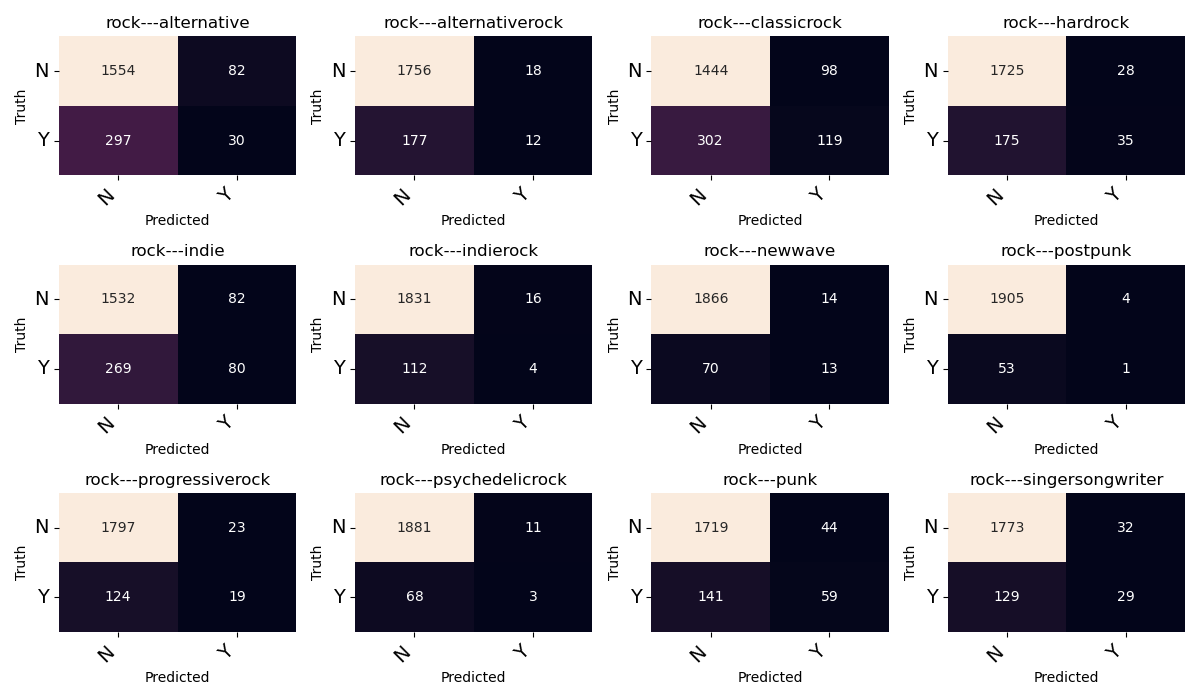
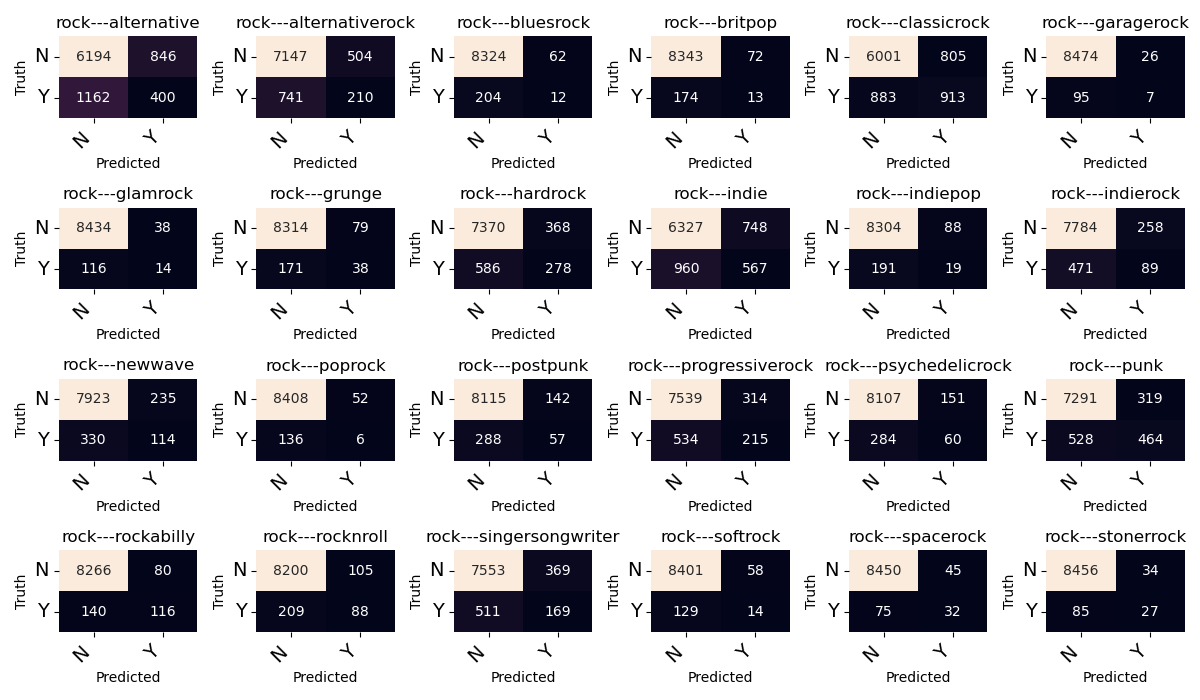
cross validation implemented

diff --git a/multilabel_cross_val.py b/multilabel_cross_val.py
@@ -1,0 +1,244 @@
+#importing libraries
+import pandas as pd
+import torch
+import os
+import seaborn as sns
+from sklearn.metrics import classification_report, multilabel_confusion_matrix
+from sklearn.model_selection import KFold
+import numpy as np
+import matplotlib.pyplot as plt
+from torch.utils.data import Dataset, DataLoader, SubsetRandomSampler
+from torch import nn
+import torch.nn.functional as F
+
+listOfGenres = sorted([
+    'rock---alternative', 'rock---alternativerock', 'rock---bluesrock',
+    'rock---britpop', 'rock---classicrock', 'rock---garagerock',
+    'rock---glamrock', 'rock---grunge', 'rock---hardrock', 'rock---indie',
+    'rock---indiepop', 'rock---indierock', 'rock---newwave', 'rock---poprock',
+    'rock---postpunk', 'rock---progressiverock', 'rock---psychedelicrock',
+    'rock---punk', 'rock---rockabilly', 'rock---rocknroll',
+    'rock---singersongwriter', 'rock---softrock', 'rock---spacerock',
+    'rock---stonerrock'
+])
+
+
+# get dataset
+class make_dataset(Dataset):
+    def __init__(self, x, y):
+        self.x = torch.tensor(x, dtype=torch.float32)
+        self.y = torch.tensor(y, dtype=torch.float32)
+        self.length = self.x.shape[0]
+
+    def __getitem__(self, idx):
+        return self.x[idx], self.y[idx]
+
+    def __len__(self):
+        return self.length
+
+
+# get model
+class multi_classifier(nn.Module):
+    def __init__(self, input_size, output_size):
+        super(multi_classifier, self).__init__()
+        self.l1 = nn.Sequential(nn.Linear(input_size, 256), nn.ReLU(),
+                                nn.Dropout(0.5))
+        self.l2 = nn.Linear(256, output_size)
+
+    def forward(self, x):
+        output = self.l1(x)
+        output = self.l2(output)
+        return F.sigmoid(output)
+
+
+# train epoch
+def train_epoch(model, dataloader, criterion, optimizer):
+    train_loss = 0.0
+    train_accuracy = []
+    for x_train, y_train in dataloader:
+        y_pred = model(x_train)
+        accuracy = []
+        for k, d in enumerate(y_pred, 0):
+            acc = prediction_accuracy(torch.Tensor.cpu(y_train[k]),
+                                      torch.Tensor.cpu(d))
+            accuracy.append(acc)
+        train_accuracy.append(np.asarray(accuracy).mean())
+        cost = criterion(y_pred, y_train)
+        # backprop
+        optimizer.zero_grad()
+        cost.backward()
+        optimizer.step()
+        train_loss += cost.item() * x_train.size(0)  # uncertain about this
+    train_acc = np.asarray(train_accuracy).mean()
+    return train_loss, train_acc
+
+
+def valid_epoch(model, dataloader, criterion):
+    model.eval()
+    valid_loss = 0.0
+    valid_accuracy = []
+    for x_valid, y_valid in dataloader:
+        y_pred = model(x_valid)
+        accuracy = []
+        for k, d in enumerate(y_pred, 0):
+            acc = prediction_accuracy(torch.Tensor.cpu(y_valid[k]),
+                                      torch.Tensor.cpu(d))
+            accuracy.append(acc)
+        valid_accuracy.append(np.asarray(accuracy).mean())
+        cost = criterion(y_pred, y_valid)
+        valid_loss += cost.item() * x_valid.size(0)  # uncertain about this
+    valid_acc = np.asarray(valid_accuracy).mean()
+    return valid_loss, valid_acc
+
+
+# prediction accuracy
+def prediction_accuracy(truth, predicted):
+    return torch.round(predicted).eq(truth).sum().numpy() / len(truth)
+
+
+# get single prediction
+def get_prediction(x, subgenres, model):
+    x_features = torch.tensor(x, dtype=torch.float32)
+    res = torch.round(model(x_features))
+    res = torch.Tensor.cpu(res).detach().numpy()
+    idx = np.argpartition(res, -3)[-3:]
+
+    labels = []
+    for i in idx:
+        labels.append(subgenres[i])
+    print(labels)
+    return labels
+
+
+def print_confusion_matrix(confusion_matrix,
+                           axes,
+                           class_label,
+                           class_names,
+                           fontsize=14):
+    df_cm = pd.DataFrame(confusion_matrix,
+                         index=class_names,
+                         columns=class_names)
+    try:
+        heatmap = sns.heatmap(df_cm, annot=True, fmt="d", cbar=False, ax=axes)
+    except ValueError:
+        raise ValueError("Confusion matrix values must be integers.")
+    heatmap.yaxis.set_ticklabels(heatmap.yaxis.get_ticklabels(),
+                                 rotation=0,
+                                 ha='right',
+                                 fontsize=fontsize)
+    heatmap.xaxis.set_ticklabels(heatmap.xaxis.get_ticklabels(),
+                                 rotation=45,
+                                 ha='right',
+                                 fontsize=fontsize)
+    axes.set_ylabel('Truth')
+    axes.set_xlabel('Predicted')
+    axes.set_title(class_label)
+
+
+# evaluate using 10-fold cross-validation
+if __name__ == '__main__':
+    # combine data
+    data_p1 = pd.read_csv('data/rock1edited_filtered.csv', index_col=0)
+    data_p2 = pd.read_csv('data/rock2edited_filtered.csv', index_col=0)
+    full_train = data_p1.append(data_p2)
+    # separate target values and get random splits
+    num_genres = 24
+    X = full_train.iloc[:, :len(full_train.columns) - num_genres]
+    Y = full_train.iloc[:, len(full_train.columns) - num_genres:]
+
+    dataset = make_dataset(X.values, Y.values)
+    splits = KFold(n_splits=10, shuffle=True, random_state=0)
+    batch_size = 32
+
+    # train over folds
+    history = {
+        'train_loss': [],
+        'test_loss': [],
+        'train_acc': [],
+        'test_acc': []
+    }
+    y_predicts = np.empty(shape=(len(full_train), num_genres))
+    y_truths = np.empty(shape=(len(full_train), num_genres))
+    row = 0
+    for fold, (train_idx,
+               val_idx) in enumerate(splits.split(np.arange(len(dataset)))):
+        print('Fold {}'.format(fold + 1))
+        train_sampler = SubsetRandomSampler(train_idx)
+        test_sampler = SubsetRandomSampler(val_idx)
+        train_loader = DataLoader(dataset,
+                                  batch_size=batch_size,
+                                  sampler=train_sampler)
+        test_loader = DataLoader(dataset,
+                                 batch_size=batch_size,
+                                 sampler=test_sampler)
+
+        model = multi_classifier(
+            len(full_train.columns) - num_genres, num_genres)
+        # binary cross entropy loss
+        criterion = nn.BCELoss()
+        optimizer = torch.optim.Adam(model.parameters(), lr=0.001)
+
+        for epoch in range(20):
+            train_loss, train_acc = train_epoch(model, train_loader, criterion,
+                                                optimizer)
+            test_loss, test_acc = valid_epoch(model, test_loader, criterion)
+
+            train_loss = train_loss / len(train_loader.sampler)
+            test_loss = test_loss / len(test_loader.sampler)
+
+            if (epoch + 1) % 10 == 0:
+                print(
+                    "Epoch: {}/{} AVG Training Loss: {:.3f} AVG Test Loss: {:.3f} AVG Training Acc {:.6f} AVG Test Acc {:.6f} %"
+                    .format(epoch + 1, 100, train_loss, test_loss, train_acc,
+                            test_acc))
+            history['train_loss'].append(train_loss)
+            history['test_loss'].append(test_loss)
+            history['train_acc'].append(train_acc)
+            history['test_acc'].append(test_acc)
+
+        for x_test, y_test in test_loader:
+            y_pred = model(x_test)
+            res = torch.round(y_pred)
+            res = torch.Tensor.cpu(res).detach().numpy()
+            truths = torch.Tensor.cpu(y_test).detach().numpy()
+            for i in range(res.shape[0]):
+                y_predicts[row] = res[i]
+                y_truths[row] = truths[i]
+                row += 1
+
+    # train and output predict loss after every 10 epochs
+    avg_train_loss = np.mean(history['train_loss'])
+    avg_test_loss = np.mean(history['test_loss'])
+    avg_train_acc = np.mean(history['train_acc'])
+    avg_test_acc = np.mean(history['test_acc'])
+    print('Performance of {} fold cross validation'.format(10))
+    print(
+        "Average Training Loss: {:.4f} \t Average Test Loss: {:.4f} \t Average Training Acc: {:.6f} \t Average Test Acc: {:.6f}"
+        .format(avg_train_loss, avg_test_loss, avg_train_acc, avg_test_acc))
+
+    # get confusion matrix and precision/recall metrics
+    print('bluuuuu')
+    print(y_predicts[0], len(y_predicts), y_truths[0])
+
+    #Confusion Matrix
+    print(
+        classification_report(y_truths, y_predicts, target_names=listOfGenres))
+    cf_matrix = multilabel_confusion_matrix(y_truths, y_predicts)
+    fig, ax = plt.subplots(4, 6, figsize=(12, 7))
+
+    for axes, cfs_matrix, label in zip(ax.flatten(), cf_matrix, listOfGenres):
+        print_confusion_matrix(cfs_matrix, axes, label, ["N", "Y"])
+
+    fig.tight_layout()
+    plt.savefig('visualizations/nn_cross_val_output.png')
+    plt.show()
+
+    X_test = full_test.iloc[1, :len(full_test.columns) - num_genres]
+    Y_test = full_test.iloc[1, len(full_test.columns) - num_genres:]
+    get_prediction(X_test, listOfGenres, model)
+
+    idx = np.argpartition(Y_test, -3)[-3:]
+    labels = []
+    for i in idx:
+        labels.append(listOfGenres[i])
+    print(labels)

diff --git a/test_multilabel_nn.py b/test_multilabel_nn.py
@@ -11,26 +11,14 @@ from torch.utils.data import Dataset, DataLoader
 from torch import nn
 import torch.nn.functional as F
 
-listOfGenres = sorted(['rock---alternative', 'rock---indierock', 'rock---singersongwriter',
-                    'rock---classicrock', 'rock---poprock', 'rock---progressiverock', 'rock---rockabilly', 'rock---rocknroll',
-                    'rock---hardcorepunk', 'rock---punk', 'rock---newwave', 'rock---postpunk', 'rock---alternativerock',
-                    'rock---indie', 'rock---hardrock', 'rock---hairmetal', 'rock---artrock', 'rock---bluesrock','rock---alternativepunk',
-                    'rock---latinrock', 'rock---powerpop', 'rock---indiepop', 'rock---psychobilly',
-                    'rock---stonerrock', 'rock---glamrock', 'rock---aor', 'rock---psychedelicrock', 'rock---britpop', 'rock---newromantic',
-                    'rock---emo', 'rock---softrock', 'rock---grunge', 'rock---pianorock', 'rock---american', 'rock---rockabillysoul',
-                    'rock---krautrock', 'rock---noisepop', 'rock---stoner', 'rock---garagerock', 'rock---lofi', 'rock---spacerock',
-                    'rock---indiefolk', 'rock---alternativemetal', 'rock---guitarvirtuoso', 'rock---powerballad', 'rock---symphonicrock',
-                    'rock---rockballad', 'rock---arenarock', 'rock---protopunk', 'rock---numetal', 'rock---rapcore', 'rock---funkrock',
-                    'rock---folkpunk', 'rock---surfrock',
-                    'rock---anarchopunk', 'rock---stonermetal', 'rock---southernrock', 'rock---poppunk', 'rock---jamband',
-                    'rock---funkmetal', 'rock---madchester', 'rock---britishinvasion', 'rock---chamberpop', 'rock---russianrock',
-                    'rock---experimentalrock', 'rock---melodicrock', 'rock---postgrunge', 'rock---horrorpunk', 'rock---streetpunk',
-                    'rock---jazzrock', 'rock---symphonicprog', 'rock---glam', 'rock---acousticrock',
-                    'rock---psychedelicpop'])
-top_twelve_list = sorted(['rock---classicrock','rock---alternative','rock---indie', 'rock---punk', 'rock---alternativerock',
-                    'rock---hardrock','rock---progressiverock','rock---singersongwriter', 'rock---indierock', 'rock---newwave', 'rock---postpunk', 'rock---psychedelicrock'])
-top_twelve_indices = [listOfGenres.index(top_twelve_list[i]) for i in range(12)]
-
+listOfGenres = sorted(['rock---alternative', 'rock---alternativerock', 'rock---bluesrock',
+ 'rock---britpop', 'rock---classicrock', 'rock---garagerock',
+ 'rock---glamrock', 'rock---grunge', 'rock---hardrock', 'rock---indie',
+ 'rock---indiepop', 'rock---indierock', 'rock---newwave', 'rock---poprock',
+ 'rock---postpunk', 'rock---progressiverock', 'rock---psychedelicrock',
+ 'rock---punk', 'rock---rockabilly', 'rock---rocknroll',
+ 'rock---singersongwriter', 'rock---softrock', 'rock---spacerock',
+ 'rock---stonerrock'])
 
 # get dataset
 class make_dataset(Dataset):
@@ -57,6 +45,42 @@ class multi_classifier(nn.Module):
         output = self.l1(x)
         output = self.l2(output)
         return F.sigmoid(output)
+
+# train epoch
+def train_epoch(model, dataloader, criterion, optimizer):
+    train_loss = 0.0
+    train_accuracy = []
+    for x_train, y_train in dataloader:
+        y_pred = model(x_train)
+        accuracy = []
+        for k, d in enumerate(y_pred, 0): 
+            acc = prediction_accuracy(torch.Tensor.cpu(y_train[k]), torch.Tensor.cpu(d))
+            accuracy.append(acc)
+        train_accuracy.append(np.asarray(accuracy).mean())
+        cost = criterion(y_pred, y_train)
+        # backprop
+        optimizer.zero_grad()
+        cost.backward()
+        optimizer.step()
+        train_loss += cost.item() * x_train.size(0) # uncertain about this
+    train_acc = np.asarray(train_accuracy).mean()
+    return train_loss, train_acc
+
+def valid_epoch(model,dataloader,criterion):
+    model.eval()
+    valid_loss = 0.0
+    valid_accuracy = []
+    for x_valid, y_valid in dataloader:
+        y_pred = model(x_valid)
+        accuracy = []
+        for k, d in enumerate(y_pred, 0): 
+            acc = prediction_accuracy(torch.Tensor.cpu(y_valid[k]), torch.Tensor.cpu(d))
+            accuracy.append(acc)
+        valid_accuracy.append(np.asarray(accuracy).mean())
+        cost = criterion(y_pred, y_valid)
+        valid_loss += cost.item() * x_valid.size(0) # uncertain about this
+    valid_acc = np.asarray(valid_accuracy).mean()
+    return valid_loss, valid_acc
 
 # prediction accuracy
 def prediction_accuracy(truth, predicted):
@@ -87,16 +111,19 @@ def print_confusion_matrix(confusion_matrix, axes, class_label, class_names, fon
     axes.set_xlabel('Predicted')
     axes.set_title(class_label)
 
+
+
+
 # evaluate using 10-fold cross-validation
 if __name__ == '__main__':
     # combine data
-    data_p1 = pd.read_csv('data/rock1edited.csv', index_col = 0)
-    data_p2 = pd.read_csv('data/rock2edited.csv', index_col = 0)
+    data_p1 = pd.read_csv('data/rock1edited_filtered.csv', index_col = 0)
+    data_p2 = pd.read_csv('data/rock2edited_filtered.csv', index_col = 0)
     full_train = data_p1.append(data_p2)
-    full_test = pd.read_csv('data/rockvalidedited.csv', index_col = 0)
+    full_test = pd.read_csv('data/rockvalidedited_filtered.csv', index_col = 0)
     
     # separate target values
-    num_genres = 74
+    num_genres = 24
     X = full_train.iloc[:, : len(full_train.columns) - num_genres]
     Y = full_train.iloc[:, len(full_train.columns) - num_genres:]
 
@@ -166,11 +193,9 @@ if __name__ == '__main__':
     #Confusion Matrix
     print(classification_report(y_truths, y_predicts, target_names=listOfGenres))
     cf_matrix = multilabel_confusion_matrix(y_truths, y_predicts)
-    fig, ax = plt.subplots(3, 4, figsize=(12, 7))
-    top_twelve_confusion = [cf_matrix[i] for i in top_twelve_indices]
-    
+    fig, ax = plt.subplots(4, 6, figsize=(12, 7))
 
-    for axes, cfs_matrix, label in zip(ax.flatten(), top_twelve_confusion, top_twelve_list):
+    for axes, cfs_matrix, label in zip(ax.flatten(), cf_matrix, listOfGenres):
         print_confusion_matrix(cfs_matrix, axes, label, ["N", "Y"])
     
     fig.tight_layout()
